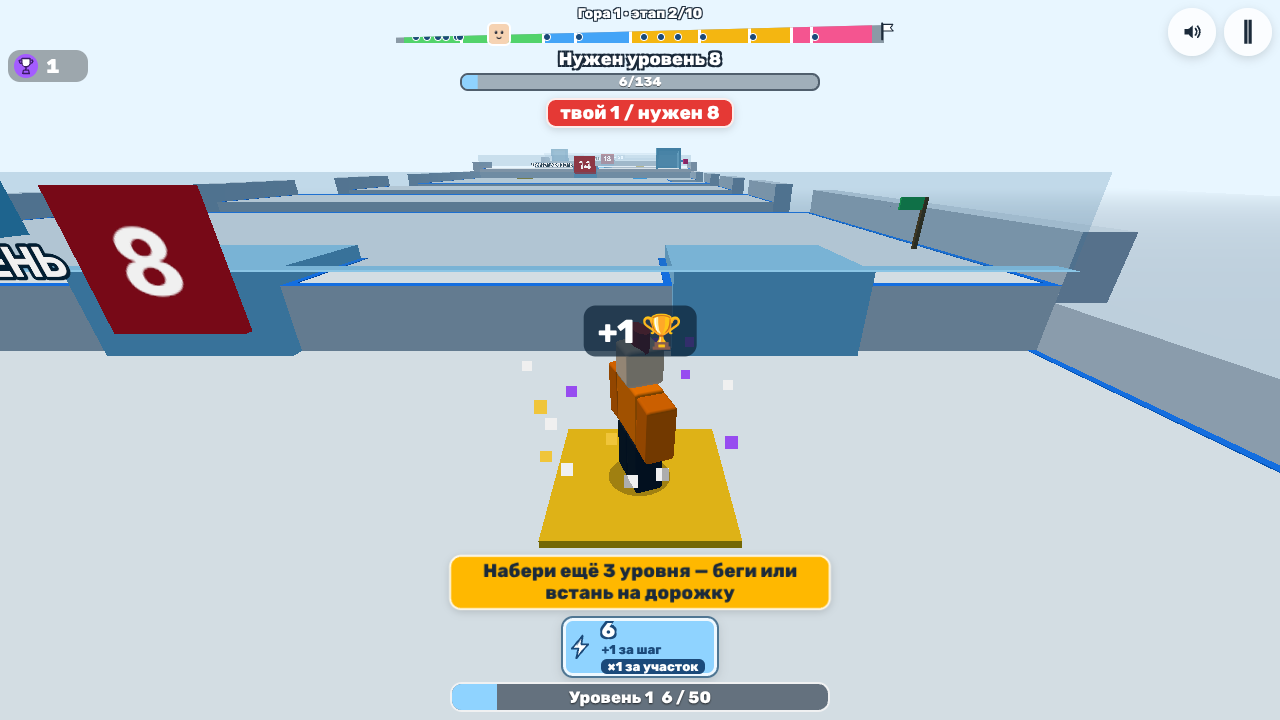
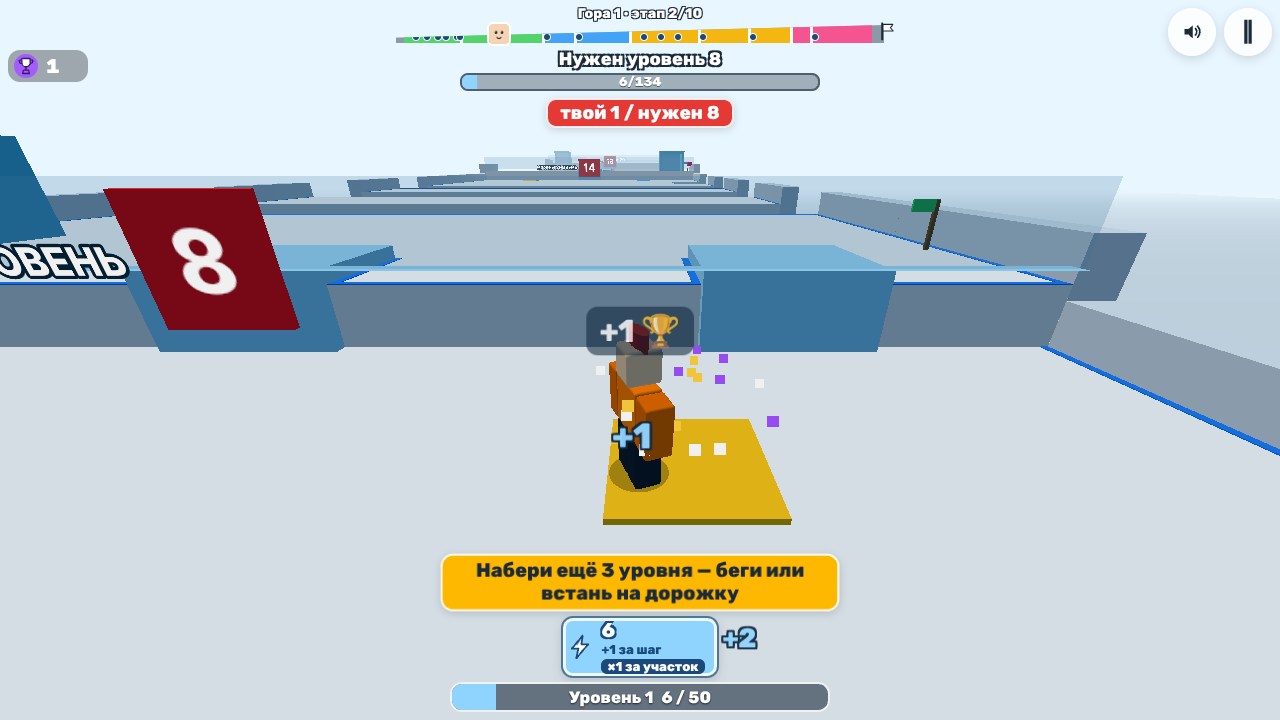
SD-10: правки по ревизору уровней и геймдизайна — мышь не крутит камеру на бегу, «+N 🏆» прячется на время лавины, «Беги к финишу!» без грота рядом; отчёты ревизоров
Claude-Session: https://claude.ai/code/session_01XtHYjMWcS9tMAGH9oMjFT7

Changed region(s): [[0.0, 0.1833, 1.0, 0.9167], [0.4375, 0.5194, 0.4688, 0.55]]

diff --git a/src/app/camp-view.ts b/src/app/camp-view.ts
@@ -106,7 +106,8 @@ export function createCampView(d: CampViewDeps): CampView {
       const ws = sim.threat?.state;
       const wave = !!ws && (ws.phase === 'warn' || (ws.phase === 'run' && ws.outcome === 'none'));
       // SD-06: the avalanche comes on almost every stage — the same plaque on any of them.
-      if (st && st.type !== 'intro' && wave) show = sim.inShelter() ? null : t('hint.cover');
+      // No grotto within reach of the warning (SD-10 review: «hide» pointed back past the finish) — run on to the finish.
+      if (st && st.type !== 'intro' && wave) show = sim.inShelter() ? null : ws!.shelter >= 0 ? t('hint.cover') : t('hint.toFinish');
       d.hud.setTutor(show);
       // The teleport pad of the camp: stepping on it opens the window once a step-on.
       const p = w.campTeleport;

diff --git a/src/input/manager.ts b/src/input/manager.ts
@@ -359,6 +359,9 @@ export class InputManager {
     // SD-01 (docs/01-gdd.md 23.1): nor the top band (pause, goal) nor near any HUD button (producer 15.10: the camera
     // turned on the way to a button).
     if (ev.clientY < innerHeight * (this.opts.mouseTop ?? 0)) return;
+    // SD-10 (review: with W held the hand on its way to «Sneakers» turned the run off the ice chute): while a move key
+    // is held the mouse turns nothing — the run keeps its way, the look comes between runs.
+    if ([...MOVE_KEYS].some((k) => this.keys.has(k))) return;
     if (this.nearButton(ev.clientX, ev.clientY, this.eventTime(ev))) return;
     this.yawDelta -= (dx * (this.opts.mouseYawPerPx ?? this.opts.mouseDegPerPx) * this.opts.sensitivity * Math.PI) / 180;
     this.lookEdge = true;

diff --git a/src/app/stage-view.ts b/src/app/stage-view.ts
@@ -68,6 +68,9 @@ export function createStageView(d: StageViewDeps): StageView {
       const sim = d.getSim();
       const stages = sim.level.stages;
       if (!stages) return d.hud.setPadLabel(null);
+      // SD-10 (review: «+N 🏆» covered the avalanche banner): no label while a wave is on.
+      const ws = sim.threat?.state;
+      if (ws && (ws.phase === 'warn' || ws.phase === 'run')) return d.hud.setPadLabel(null);
       const h = sim.hero.pos;
       let best = -1;
       for (let k = 0; k < stages.length; k++) {

diff --git a/docs/evidence/sd/review-level-gd.md b/docs/evidence/sd/review-level-gd.md
@@ -1,0 +1,86 @@
+# Ревизор «левел-дизайнер + геймдизайнер»: веха SD, темп `stages` (16.10)
+
+## Итог
+- **Оценок 2 и ниже нет.** Самое слабое — пункты 1, 4, «ритм» и «понятность цели»: по 3.
+- **Серьёзность 3 (ломает или очень заметно):**
+  - №1: на ПК рука тянется к кнопке «Кроссовки» → камера поворачивается на 40°, герой с зажатой W слетает с ледяного жёлоба;
+  - №2: баннер «Лавина через N» закрыт плашкой «+N 🏆», а стрелка ведёт назад, хотя финиш ближе.
+- Великан (5) и «Скорость решает» (4) работают как задумано. Кромки видны.
+
+| Пункт | Оценка | Доказательство |
+|---|---|---|
+| 1. Камера и управление | 3 | Телефон: переворота нет. Камера в гротах всегда за спиной (`cameraFixedBlend` 0, `viewYaw` 0), стены полупрозрачные. `cameraStats` за ≈13 800 кадров гор 1–3: камера внутри 0, герой перекрыт 0. ПК: правила мыши выполняются (верх 15% — 0°, край 12% — 0°, 48 px у кнопки — 0°), но по пути к кнопке камера уходит на 20–40°, и герой с W падает (№1, `ldgd-pc-shoes-fall.png`). В гроте-скале прозрачная задняя стена выглядит как проход (№3, `ldgd-grotto-deadend.png`) |
+| 2. Кубки | 4 | Гора 1 с нуля, касаниями: «+1» на финише 2 → сразу лагерь, 🏆 1 → второй забег → «+3» → 🏆 4 → касание «Кроссовки ×2 · 4 🏆» → куплено, 🏆 0, следующие «×3 · 43 🏆». Лестница 1, 3, 10, 20 … 70. Замечания №4 и №6 |
+| 3. Великан | 5 | 36 попыток на горах 1 и 2, на уровнях N, N+6, N+20. «Держать вперёд»: пойман 12 из 12, на ПК с W — 2 из 2. Обход по краю (x = 40): прошёл 12 из 12. Зигзаг по центру: прошёл 5 из 12. Подсказка «Обеги великана сбоку!» (`ldgd-giant-forward.png`) |
+| 4. Лавина на этапах | 3 | Если медлить на старте этапа, волна приходит через 2–8 с, подсвечен грот у края поля, до него 41 ед — 1,3–1,8 с при окне 4 с. Из 7 таких случаев 7 спаслись. Кто бежит без остановок, волну на обычных этапах не видит ни разу (горы 1–3, 28 этапов). В середине узкого этапа грота нет, а подсказки путают (№2, №5) |
+| 5. «Скорость решает» | 4 | Окно прыжка у края на трещинах и плитах (горы 1–2): на N — от 0 до 5–6 ед до края, на N+2 — от 0 до 10 ед и больше, на N−2 — только 1 ед. Бот игры на 7 этапах с ямами: N−2 — 0 из 28, N — 28 из 28, N+2 — 28 из 28. Замечание №7: на N окно ~0,15 с |
+| Кромки | 4 | Синяя кромка видна у трещин, плит, жёлоба и теснины во всех кадрах, на телефоне и ПК (`ldgd-pc-shoes-fall.png`, `ldgd-wave-under-pad.png`) |
+| Ритм горы | 3 | Этап проходится за 2,4–7,5 с, типы чередуются (поле ↔ мост). Но гора 1 ровная только после этапа 5, а на горах 2–3 каждый рубеж — 1–5 мин на дорожке (№8) |
+| Понятность цели | 3 | Хорошо: наверху «Нужен уровень N» и полоса, крупная цифра на стене, «твой X / нужен Y», плашка «+N 🏆» видна издалека как ориентир. Плохо: противоречивые и перекрытые подсказки (№2, №4, №5, №6) |
+
+## Как играл
+- Сборка `dist-e2e` (от 15.10 23:36, позже всех правок `src/` и `content/`). Временный spec на фикстурах `e2e/fixtures.ts`, `?pace=stages`. После прогонов spec и `test-results` удалены.
+- **Телефон 812×375** (`mock_device=mobile`, `hasTouch`):
+  - стик — `__TEST__.stick` в системе камеры, как видит игрок: цель пересчитывается через `viewYaw`, а не через `controlYaw`;
+  - прыжок — `pointerdown` по реальной кнопке `[data-hud=jump]`, когда под точкой на 1,6 ед впереди нет пола;
+  - «Кроссовки» — `page.touchscreen.tap`.
+- **ПК 1280×720:** реальные `page.keyboard` (W, A, S, D, пробел) и `page.mouse.move` без кнопки. Только в одном прогоне к гроту рулили синтетическими клавишами — это отмечено.
+- Гора 1 пройдена целиком с нуля: первая минута, великан, кнопка кубков, лагерь, второй забег, кроссовки, этапы 4–10, вершина.
+- Гора 2 пройдена целиком, гора 3 — выборочно, этапы 1–6, 10, 11.
+- Перед закрытым рубежом герой честно стоял на дорожке финиша 6–12 с. По этому замерялось, сколько ещё ждать (ETA). Потом Скорость поднималась `setStat` до уровня рубежа.
+- Отдельные прогоны:
+  - лавина: медлить на старте и в середине этапа — 14 случаев;
+  - великан — 36 попыток;
+  - окно прыжка: 3 этапа × уровни N−2, N, N+2 × запас до края 0–10 ед, `timeScale` 0,25 для точности;
+  - ПК: мышь, кнопки, грот, великан с W, пробел у трещины.
+- Кадры (~120) лежат в scratchpad. В репозиторий взяты 5: `docs/evidence/sd/ldgd-*.png`.
+
+## Находки
+
+| № | Серьёзность | Где | Что видно | Как воспроизвести | Правка одной строкой |
+|---|---|---|---|---|---|
+| 1 | 3 | ПК, любой узкий этап (жёлоб, плиты, теснина) | Игрок держит W и ведёт мышь из центра к «Кроссовкам» (справа внизу) или к колонке меню. Камера поворачивается: к «Кроссовкам» с 857 px на −15°, из центра — до −41°. Герой бежит за камерой, слетает с жёлоба и катится на этап назад. Покупка при этом проходит. Мёртвая зона кнопки (48 px) и край (12%) срабатывают только в конце пути. | Гора 1, этап 4 (жёлоб), 🏆 ≥ 43: держать W, мышью от (640, 400) к «Кроссовкам», клик → «Беговые: ×2 за шаг» и откат на этап 3 (`ldgd-pc-shoes-fall.png`) | Пока зажата клавиша движения, мышь без кнопки поворачивает только `viewYaw`, а `controlYaw` догоняет на новом нажатии, как на телефоне. Либо мёртвая зона — весь правый столбец кнопок (≈25% ширины) |
+| 2 | 3 | Все узкие этапы (теснина, жёлоб, плиты) — середина этапа | «Лавина через N» закрыт фиолетовой плашкой «+50 🏆» / «+190 🏆»: она висит над осью бега и на экране попадает в полосу баннера. В середине этапа грот не подсвечен (`wave.shelter` = −1), но плашка «Спрячься за камень!» и белая стрелка ведут назад, к гроту старта (88 ед). До финиша при этом 80 ед. На горе 1 бег вверх спас, на горе 2 (теснина 7) — сорвался с карниза в спешке. | Гора 1, этап 8: дойти до середины теснины (z≈1840) и стоять ~20 с (`ldgd-wave-under-pad.png`). То же на горе 2, этап 7 | Плашку «+N 🏆» прятать, пока идёт баннер лавины, и не пускать её выше полосы цели. Без грота в окне — плашка «Беги к финишу!» и стрелка вверх |
+| 3 | 2 | Этапы `avalanche` (гора 1, 2, 3 — этап 6): гроты-скалы на склоне (x ≈ ±18) | Грот — тупик с входом снизу. Изнутри задняя стена прозрачная, сквозь неё виден склон. Игрок жмёт «вверх» и упирается, не понимая почему. Выйдя из грота, «вверх» снова заводит в него. Мой бот так застрял в гроте на 100 с (гора 1, этап 6; гора 2, этап 6; гора 3, этап 6). Выход: стик вниз (назад к камере, переворота нет), в сторону, вверх. | Гора 1, этап 6: на «Лавина через N» в подсвеченный грот, после волны держать стик вверх (`ldgd-grotto-deadend.png`) | Задняя стена грота не прозрачная (прозрачны только стены между камерой и героем), над выходом стрелка «↓→». Либо грот сквозной — выход вверх по склону |
+| 4 | 2 | Гора 1, финиш 2 → лагерь | После «+1 🏆» на экране одновременно «Путь открыт — вперёд!», «твой 8 / нужен 8» (зелёным) и обучение «Набери ещё 3 уровня — беги или встань на дорожку». Рубеж 3 уже открыт, а игру просят копить. | Новая игра, бежать без остановок до финиша 2, наступить на «+1» (`ldgd-tutor-contradiction.png`) | Шаг обучения «+3 уровня» пропускать, если следующий рубеж уже открыт («Беги к этапу 3!») |
+| 5 | 2 | Любая лавина на этапах с подарком (горы 1–3) | Две команды сразу: «Спрячься за камень!» и «Принеси золотой подарок в пещеру!», даже когда подарка в руках нет (`bonus.carried: false`) и герой уже в гроте. «Камень» и «пещера» — одно и то же укрытие. | Гора 1, этап 5: стоять на старте до «Лавина через 4» | Подсказку о подарке — только с подарком в руках, одно слово для укрытия |
+| 6 | 2 | Все этапы, пока не взята первая «+N 🏆» | Обучение «Возьми кубки» висит на каждом этапе, в гроте и у портала вершины, если игрок пропустил первую кнопку. Плашка над Скоростью закрывает ноги героя и пол прямо перед ним — на жёлобе и плитах это место прыжка (кадры `m1s4-mid`, `m2s10-mid`) | Гора 1: пройти финиш 2, не наступив на «+1», бежать дальше | «Возьми кубки» — только в зоне финиша; плашку обучения на телефоне — выше героя или сбоку |
+| 7 | 2 | Плиты и трещины на уровне N | На N окно прыжка — от 0 до 5–6 ед до края, это ~0,15 с при v(N) 35–53. На плитах 4–5 прыжков подряд. Для 6+ на телефоне каждый промах — откат на этап назад. На N+2 окно ≥ 10 ед (~0,25 с и больше) — комфортно. | Прогон «окно прыжка»: гора 1 этапы 3 и 5, гора 2 этап 4 | `stages.gapK` 0,83 → 0,75: окно на N ~0,25 с, N−2 всё ещё не долетает (N−2 сейчас проходит только с 1 ед до края) |
+| 8 | 2 | Горы 2–3, каждый рубеж | Сколько ещё стоять на дорожке без кроссовок: гора 2 — 203, 84, 101, 56, 62, 159, 92, 286 с; гора 3, этап 2 (великан, уровень 44 → 49) — 573 с. Бег по этапу — 3–7 с. На горе 1 после этапа 5 рубежи открываются бегом (2–17 с ожидания). | Гора 2 без покупок: встать на дорожку финиша | Решает продюсер (баланс не пересчитываем); как минимум первые 2 рубежа горы 2 — не больше +3 уровней |
+| 9 | 2 | Лагерь → телепорт | Цена телепорта к этапу n равна награде кнопки этапа n. Кто взял «+N 🏆» на этапе n и платит телепортом назад, получает 0. Окно после покупки кроссовок: «Этап 2 — не хватает 1 🏆, Этап 3 — не хватает 3 🏆». Кнопка не говорит, что вернёт в лагерь. | Гора 1: взять «+1» и «+3», купить кроссовки, открыть телепорт | Цена телепорта — половина награды этапа, или к последнему пройденному этапу бесплатно раз за забег; на плашке «+N 🏆 · в лагерь» |
+| 10 | 1 | Лавина на обычных этапах | Если бежать без остановок, лавину видно только на этапе 6 каждой горы. Если медлить, вторая волна на том же этапе приходит не раньше общего интервала (30–50 с), и в 5 случаях из 14 волны за 25 с не было. «Почти на каждом этапе» игрок не почувствует. | Пройти гору без остановок | Так задумано (стимул спешить). Если нужна «лавина на каждом этапе» — задержку зоны считать от входа на этап, а не после общего интервала |
+
+### Что работает хорошо
+- **Великан:** держится линии бега, касание ловит на любой Скорости. Обход по краю проходит всегда, зигзаг по центру — в 5 случаях из 12. Это честное испытание.
+- **Грот у старта этапа у края поля:** стрелка показывает на него сразу, добежать — 1,5 с из 4. Камера внутри за спиной, волна видна сквозь стены (`pc2-grotto-wave`).
+- **Безопасный финиш:** кто добежал до финиша во время предупреждения, того не накрыло («wave over: safe»).
+- **«Скорость решает»:** порог чёткий. N−2 — только при прыжке у самого края, бот 0 из 28. N+2 — любой момент прыжка. Катапульта на N−2 не добрасывает (0 из 4), на N и N+2 — 4 из 4. Впадины от уровня не зависят (4 из 4 на N−2) — это не прыжок.
+- **Кубки:** «+1 🏆» видно с середины этапа как ориентир. Кнопка берётся наступанием, сразу лагерь. Покупка кроссовок за 4 🏆 касанием — с первого раза.
+
+## Проверено / не проверено
+- **Проверено:**
+  - гора 1 целиком на телефоне (первая минута, два забега, две кнопки кубков, кроссовки, телепорт, этапы 4–10, портал вершины);
+  - гора 2 целиком, гора 3 — этапы 1–6, 10, 11;
+  - 14 случаев «медлить» на горах 1–2;
+  - 36 попыток у великана;
+  - 192 попытки «Скорость решает» (бот игры и мой игрок) и 60 точных замеров окна прыжка;
+  - ПК: мышь в 6 зонах экрана, W после поворота мышью, пробел у трещины (2 из 3 чисто), великан с W, грот реальными W/S/D;
+  - ошибок консоли нет: проверка консоли в фикстуре не сработала ни в одном прогоне.
+- **Не проверено:**
+  - этапы 7–9 горы 3 глазами;
+  - вершины гор 2–3 и окно вершины: у портала горы 1 окно за 6 с не открылось, в портал не входил;
+  - лабиринт с ложным выходом (шёл верным путём);
+  - лавка, питомцы, яйца, звук;
+  - английский язык;
+  - портрет и экраны кроме 812×375 и 1280×720;
+  - реальный палец: стик — тест-API, прыжок — событие на кнопке, задержка реакции ребёнка не моделировалась (окно прыжка дано в единицах и секундах).
+
+## Статус находок (сборщик, 16.10)
+| № | Статус |
+|---|---|
+| 1 | Исправлено: пока зажата клавиша движения, мышь камеру не поворачивает (`src/input/manager.ts`) — рука к «Кроссовкам» больше не сворачивает бег |
+| 2 | Исправлено: «+N 🏆» прячется на время лавины; без грота в досягаемости — «Беги к финишу!» вместо «Спрячься за камень!» |
+| 3, 4, 5, 6, 9 | Не исправлено, в итог вехи: подсказки обучения и окна — следующая веха (раскладка и тексты), грот-тупик — предложение «сквозной грот» продюсеру |
+| 7 | Не меняю: при `gapK` 0,75 уровень N−2 снова перепрыгивает (дальность на N−2 ≈ 0,79 прыжка N) — «Скорость решает» сломается; окно на N можно расширить только вместе с силой `levelJump.g` — вопрос продюсеру |
+| 8 | Баланс не пересчитывали (бриф) — в итог вехи |
+| 10, 11 | Как задумано / не воспроизведено |
